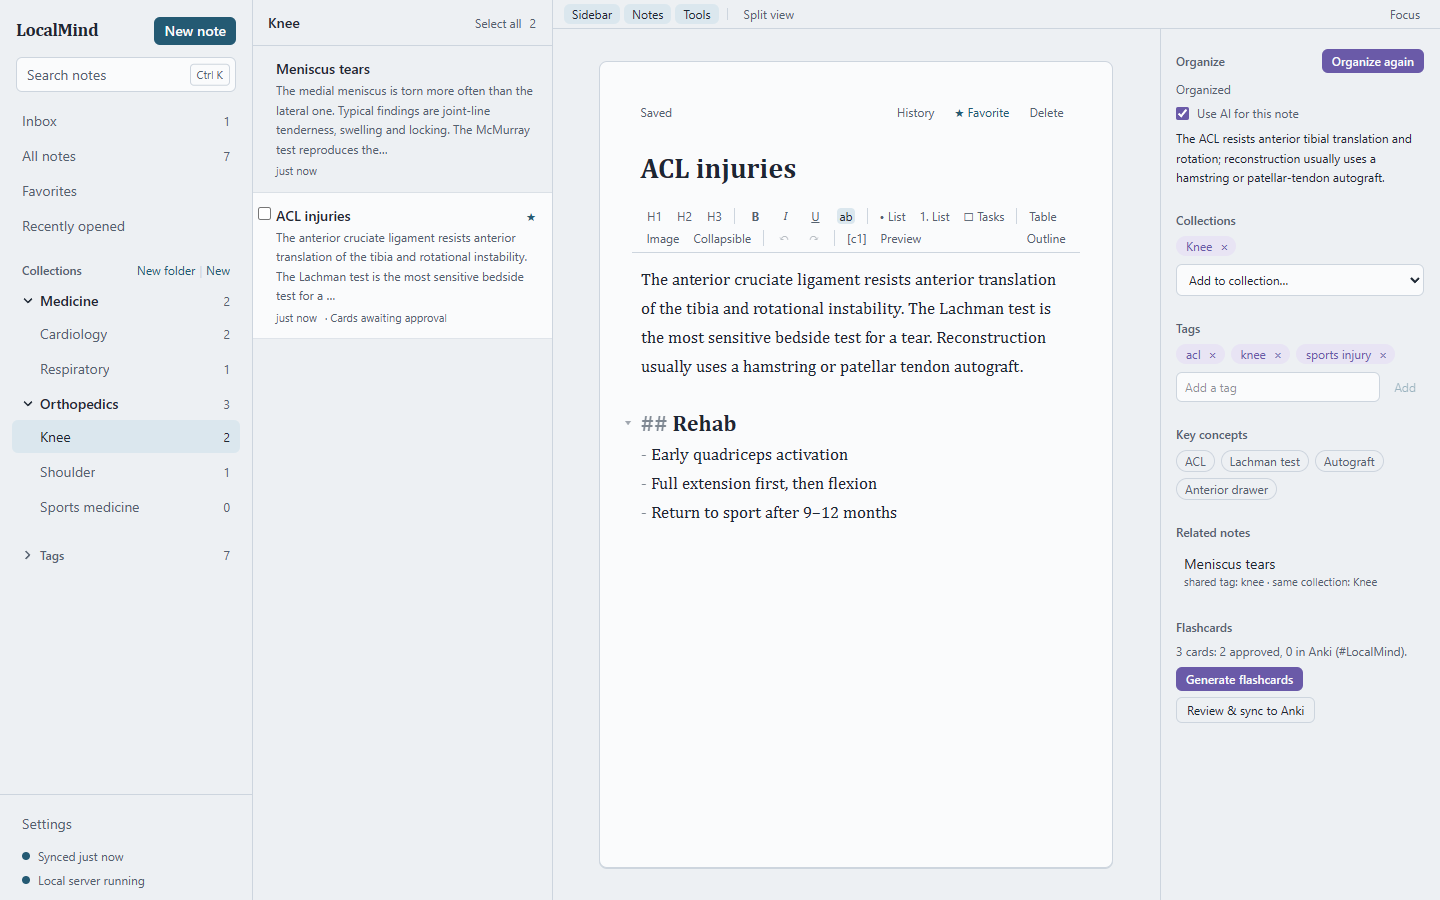
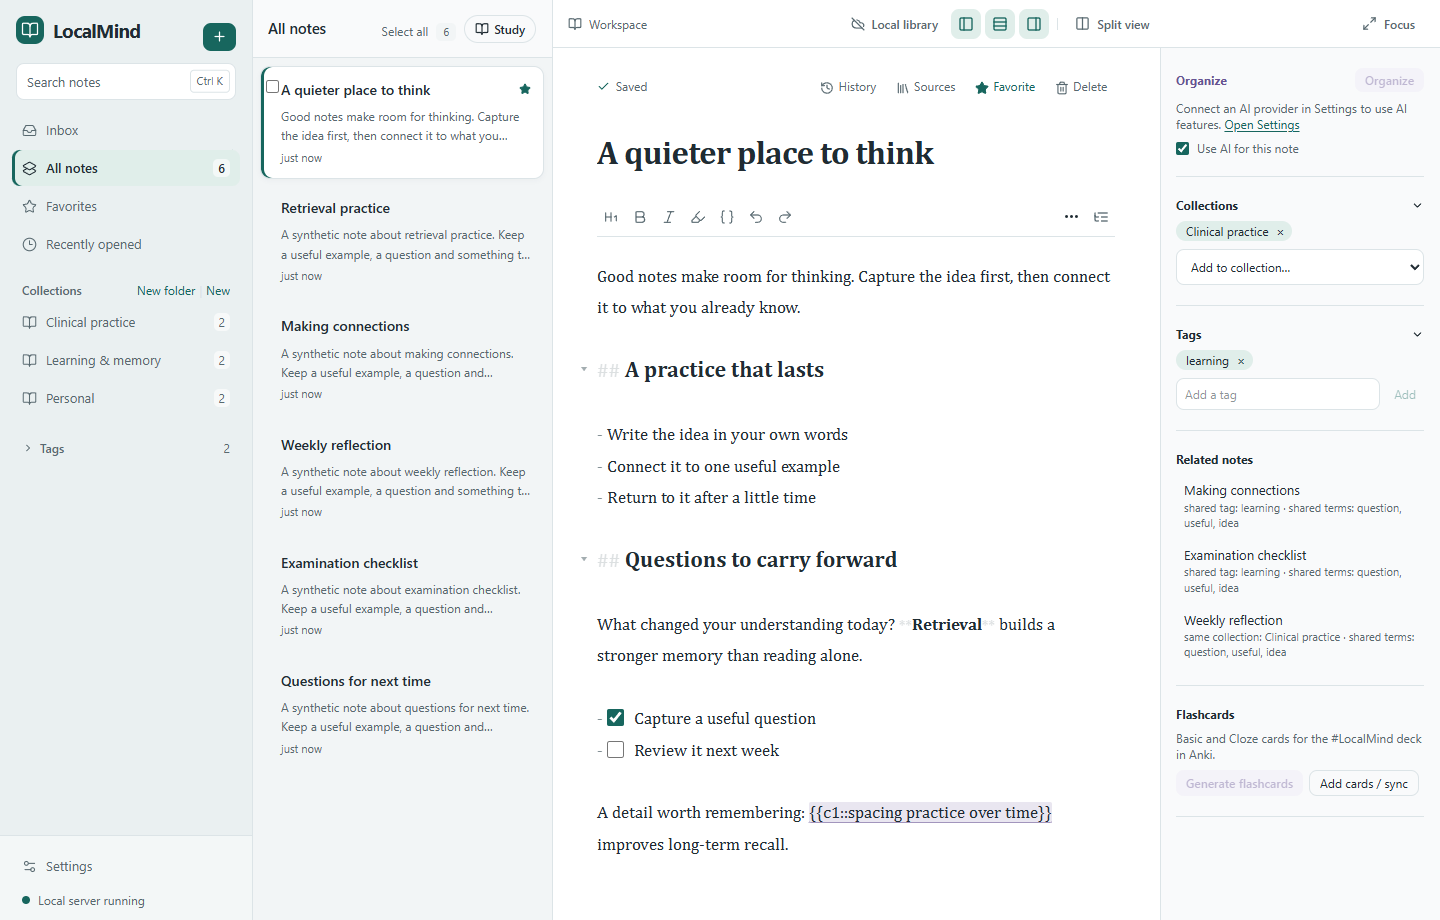
docs: publish Windows 0.6.5 redesign; retain Android 0.6.1 and affected Mac 0.5.0

diff --git a/docs/index.html b/docs/index.html
@@ -15,8 +15,8 @@
 <header class="site-header wrap"><a class="brand" href="./" aria-label="LocalMind home"><img src="assets/logo.svg" width="36" height="36" alt="">LocalMind</a><nav aria-label="Main navigation"><a href="#features">Features</a><a href="#downloads">Downloads</a><a href="privacy/">Privacy</a></nav></header>
 <main id="main">
   <section class="hero wrap">
-    <div class="hero-copy"><h1>Notes that<br>stay yours.</h1><p class="intro">Write locally. Find connections.<br>Turn what matters into flashcards.</p><p>LocalMind brings your notes, related ideas and study tools into one library on your device. AI is optional. Your own words remain yours to edit.</p><div class="actions"><a class="button" href="https://github.com/MohammadAliKid/LocalMind-releases/releases/download/v0.6.1/LocalMind-Setup.exe">Download for Windows</a><a class="text-link" href="#downloads">Get the Android app</a></div><p class="quiet">No LocalMind account required. Core notes work offline.</p></div>
-    <figure class="app-preview"><img src="assets/desktop-notes.png" width="1440" height="900" fetchpriority="high" alt="LocalMind Windows interface with synthetic notes, local collections, an editor and flashcards"><figcaption>A real LocalMind interface. All demonstration notes are synthetic.</figcaption></figure>
+    <div class="hero-copy"><h1>Notes that<br>stay yours.</h1><p class="intro">Write locally. Find connections.<br>Turn what matters into flashcards.</p><p>LocalMind brings your notes, related ideas and study tools into one library on your device. AI is optional. Your own words remain yours to edit.</p><div class="actions"><a class="button" href="https://github.com/MohammadAliKid/LocalMind-releases/releases/download/v0.6.5/LocalMind-Setup.exe">Download for Windows</a><a class="text-link" href="#downloads">Get the Android app</a></div><p class="quiet">Windows 0.6.5 brings the redesigned desktop workspace. Android stays 0.6.1; Mac 0.5.0 downloads remain affected. Core notes work offline.</p></div>
+    <figure class="app-preview"><img src="assets/desktop-notes.png" width="1440" height="920" fetchpriority="high" alt="LocalMind Windows interface with synthetic notes, local collections, an editor and flashcards"><figcaption>A real LocalMind interface. All demonstration notes are synthetic.</figcaption></figure>
   </section>
   <section id="features" class="features wrap" aria-labelledby="features-heading">
     <div class="section-heading"><h2 id="features-heading">A useful home for what you learn.</h2><p>Start with a note. Keep the tools you need close, and leave the rest optional.</p></div>
@@ -25,10 +25,10 @@
   <section class="phone-section wrap" aria-labelledby="phone-heading"><div class="phone-image"><img src="assets/android-library.png" width="1080" height="2400" loading="lazy" alt="Android LocalMind library displaying synthetic study notes"></div><div><h2 id="phone-heading">Your library, within reach.</h2><p class="intro">Capture a passage before the thought disappears.</p><p>Share text from another Android app, preview it, then save a new note or append it to one you already have. Keep source URLs alongside your words.</p><ul class="plain-list"><li>Write and study offline.</li><li>Add images and keep image-inclusive backups.</li><li>Use your preferred AI provider only when you choose.</li><li>Keep approved flashcards connected to AnkiDroid.</li></ul><a class="text-link" href="#downloads">Android download and installation details</a></div></section>
   <section class="drive-section" aria-labelledby="drive-heading"><div class="wrap drive-layout"><div><span class="status-tag">New in v0.6.1</span><h2 id="drive-heading">Your devices.<br>Your Google Drive.</h2><p>Encrypted Google Drive synchronization is available in LocalMind 0.6.1 for Windows and Android. Sign in with Google in Settings → Sync and your notes, images and deletions stay in step across your devices.</p><p>LocalMind requests access only to its hidden app folder in your Drive. Sync journals and images are encrypted before upload. Pair devices using the same Google account and a private recovery code.</p><p>Syncthing remains available as an alternative. Google's sign-in screen shows this website's address rather than the LocalMind name.</p><a class="text-link" href="privacy/#google-drive">How Drive data and recovery work</a></div><figure class="drive-preview"><img src="assets/drive-preview.png" width="1080" height="2220" loading="lazy" alt="Android Settings showing a connected encrypted Google Drive library with the recovery code hidden"><figcaption>Recovery codes and account details are hidden.</figcaption></figure></div></section>
   <section id="downloads" class="downloads wrap" aria-labelledby="downloads-heading"><div class="section-heading"><h2 id="downloads-heading">Download LocalMind.</h2><p>Official binaries, accurate platform versions and signed update metadata.</p></div><div class="download-grid">
-    <article class="download-platform"><h3>Windows</h3><p class="version">v0.6.1</p><p>Windows 10 / 11, 64-bit.</p><a class="button" href="https://github.com/MohammadAliKid/LocalMind-releases/releases/download/v0.6.1/LocalMind-Setup.exe">Download Windows installer</a><p class="quiet">The installer is not Authenticode-signed; Windows may show a warning. LocalMind update metadata is cryptographically signed.</p></article>
+    <article class="download-platform"><h3>Windows</h3><p class="version">v0.6.5</p><p>Windows 10 / 11, 64-bit.</p><a class="button" href="https://github.com/MohammadAliKid/LocalMind-releases/releases/download/v0.6.5/LocalMind-Setup.exe">Download Windows installer</a><p class="quiet">The installer is not Authenticode-signed; Windows may show a warning. LocalMind update metadata is cryptographically signed.</p></article>
     <article class="download-platform"><h3>Android</h3><p class="version">v0.6.1</p><p>Android 7 or later. Official release-signed APK.</p><a class="button secondary" href="https://github.com/MohammadAliKid/LocalMind-releases/releases/download/v0.6.1/LocalMind-Android-0.6.1.apk">Download Android APK</a><p class="quiet">Allow installation from the browser or file manager you use. Keep the official signing identity when updating; do not uninstall to upgrade.</p></article>
     <article class="download-platform mac"><h3>macOS</h3><p class="version">v0.5.0 · affected</p><p class="notice">Defer installation. Apple Silicon has an invalid resource seal; Intel is unsigned and awaits final-DMG validation. Corrected Mac builds are not yet available.</p><p><a href="https://github.com/MohammadAliKid/LocalMind-releases/releases/download/v0.5.1/LocalMind-0.5.0-mac-arm64.dmg">Apple Silicon DMG</a><br><a href="https://github.com/MohammadAliKid/LocalMind-releases/releases/download/v0.5.1/LocalMind-0.5.0-mac-x64.dmg">Intel DMG</a></p><a href="https://github.com/MohammadAliKid/LocalMind-releases/blob/main/docs/mac-launch.md">Read the Mac launch notice</a></article>
-  </div><p class="download-footnote"><a href="https://github.com/MohammadAliKid/LocalMind-releases/releases/tag/v0.6.1">Release notes and checksums</a><span aria-hidden="true"> / </span><a href="https://github.com/MohammadAliKid/LocalMind-releases/blob/main/docs/verify.md">Verify a download</a><span aria-hidden="true"> / </span><a href="https://github.com/MohammadAliKid/LocalMind-releases">User guides</a></p></section>
+  </div><p class="download-footnote"><a href="https://github.com/MohammadAliKid/LocalMind-releases/releases/tag/v0.6.5">Release notes and checksums</a><span aria-hidden="true"> / </span><a href="https://github.com/MohammadAliKid/LocalMind-releases/blob/main/docs/verify.md">Verify a download</a><span aria-hidden="true"> / </span><a href="https://github.com/MohammadAliKid/LocalMind-releases">User guides</a></p></section>
   <section class="closing wrap"><h2>Start with your own words.</h2><p>Use LocalMind as a local notebook, add a study workflow, or connect an optional provider. Provider availability, charges and data handling vary by platform and account.</p><a class="text-link" href="privacy/">Read the Privacy Policy</a></section>
 </main>
 <footer class="site-footer wrap"><a class="brand" href="./"><img src="assets/logo.svg" width="25" height="25" alt="">LocalMind</a><p>Maintained by <a href="https://github.com/MohammadAliKid">MohammadAliKid</a>.</p><nav aria-label="Footer"><a href="privacy/">Privacy Policy</a><a href="terms/">Terms of Use</a><a href="https://github.com/MohammadAliKid/LocalMind-releases/issues">Support</a></nav></footer>

diff --git a/README.md b/README.md
@@ -12,7 +12,7 @@
 </p>
 
 <p align="center">
-  <img src="https://img.shields.io/badge/version-0.6.1-245a73" alt="Version 0.6.1">
+  <img src="https://img.shields.io/badge/version-0.6.5-245a73" alt="Version 0.6.5">
   <img src="https://img.shields.io/badge/Windows-10%20%7C%2011%20(64--bit)-245a73" alt="Windows 10 and 11, 64-bit">
   <img src="https://img.shields.io/badge/macOS-Apple%20Silicon%20%7C%20Intel-245a73" alt="macOS: Apple Silicon and Intel">
   <img src="https://img.shields.io/badge/Android-7%2B-245a73" alt="Android 7 or later">
@@ -24,6 +24,13 @@
 </p>
 
 ## What it does
+
+**Windows 0.6.5: a calmer desktop workspace.** Refined light/dark themes, clearer navigation and note cards,
+a borderless writing page, consistent icons, compact formatting with overflow, grouped note tools, refreshed
+Settings and Study Mode, and better keyboard focus and narrow/split layouts. Your notes, Markdown, Anki identities,
+Google Drive library and backups stay intact. Android remains 0.6.1/code13; Mac downloads remain affected 0.5.0.
+
+<table><tr><td width="50%"><img src="images/settings-desktop.png" alt="Redesigned Windows Settings with synthetic demo configuration"><br><sub>Settings.</sub></td><td width="50%"><img src="images/study-desktop.png" alt="Redesigned dark Study Mode with synthetic learning notes"><br><sub>Study Mode.</sub></td></tr></table>
 
 **LocalMind 0.6.1 (Windows and Android): Google Drive sync.** Sign in with Google (in your browser on
 Windows, through Google Play services on Android) and your notes, images and deletions sync between your devices
@@ -120,13 +127,13 @@ image-inclusive backups and clearer local-save/folder-sync status.
 
 | Platform | Version | Download |
 |---|---|---|
-| Windows 10/11 (64-bit) | 0.6.1 | [Download LocalMind for Windows](https://github.com/MohammadAliKid/LocalMind-releases/releases/download/v0.6.1/LocalMind-Setup.exe) |
+| Windows 10/11 (64-bit) | 0.6.5 | [Download LocalMind for Windows](https://github.com/MohammadAliKid/LocalMind-releases/releases/download/v0.6.5/LocalMind-Setup.exe) |
 | Mac — Apple Silicon | 0.5.0 | [Download LocalMind for Mac — Apple Silicon](https://github.com/MohammadAliKid/LocalMind-releases/releases/download/v0.5.1/LocalMind-0.5.0-mac-arm64.dmg) |
 | Mac — Intel | 0.5.0 | [Download LocalMind for Mac — Intel](https://github.com/MohammadAliKid/LocalMind-releases/releases/download/v0.5.1/LocalMind-0.5.0-mac-x64.dmg) |
 | Android 7+ | 0.6.1 | [Download LocalMind for Android](https://github.com/MohammadAliKid/LocalMind-releases/releases/download/v0.6.1/LocalMind-Android-0.6.1.apk) |
 
-[Release notes and SHA-256 checksums](https://github.com/MohammadAliKid/LocalMind-releases/releases/tag/v0.6.1)
-· Windows and Android are 0.6.1; Mac retains 0.5.0 from the last successful Mac CI run.
+[Release notes and SHA-256 checksums](https://github.com/MohammadAliKid/LocalMind-releases/releases/tag/v0.6.5)
+· Windows 0.6.5; Android 0.6.1/code13 unchanged; Mac 0.5.0 downloads remain affected (defer installation).
 
 **Windows:** run LocalMind-Setup.exe. It installs for your account, with no administrator rights. The installer is
 not Authenticode-signed yet, so SmartScreen may ask for confirmation. Compare its SHA-256 with the release page.
@@ -156,7 +163,7 @@ Android signing certificate SHA-256: `91c92f7cd107dfc977661f0497b2954bfcb5d789f5
 
 | File | SHA-256 |
 |---|---|
[5 lines of base64/hex data omitted]

diff --git a/CHANGELOG.md b/CHANGELOG.md
@@ -1,5 +1,26 @@
 # Changelog
 
+## 0.6.5 — 2026-11-08
+
+- Windows desktop redesign: cohesive light/dark themes, clearer navigation and note library, a borderless writing
+  page, consistent line icons, compact formatting with overflow, grouped tools, refreshed Settings and Study Mode.
+- Improve keyboard focus in dialogs, platform shortcut labels, reduced motion, narrow-window and split-pane layouts.
+  Markdown remains unchanged on disk; notes, Anki NoteUIDs, attachments, sync and backups retain their identities.
+- Windows-only release. Android remains 0.6.1/code13 with its existing APK and signed updater. Mac retains the
+  affected 0.5.0 downloads: defer installing them. Mac signing repair and genuine Apple Silicon validation stay on
+  draft PR #7 for the future coordinated 0.7.0 release.
+- Windows installer is not Authenticode-signed. Updates retain the existing Ed25519 signing identity.
+
+## 0.6.1 (2026-11-08)
+
+- Google Drive sync (optional): sign in with Google on Windows (browser) or Android (Google Play services) and sync
+  notes, images and deletions between your devices through an encrypted, app-private Drive folder. LocalMind only
+  requests the `drive.appdata` permission and cannot see your other Drive files. Pair a second device with the
+  recovery code shown on the first; keep that code safe, it is needed to restore your library.
+- Works offline; concurrent edits keep both versions. Disconnecting or revoking access keeps every local note.
+- Google's sign-in screen shows the website address instead of the LocalMind name and logo (branding not verified).
+- Protect cancelled sign-ins and Drive setup/disconnect transitions. Syncthing folder sync remains under Advanced.
+
 ## 0.6.0 (2026-11-07)
 
 Windows 0.6.0 and Android 0.6.0. macOS downloads remain 0.5.0 (see the Mac launch notice).
